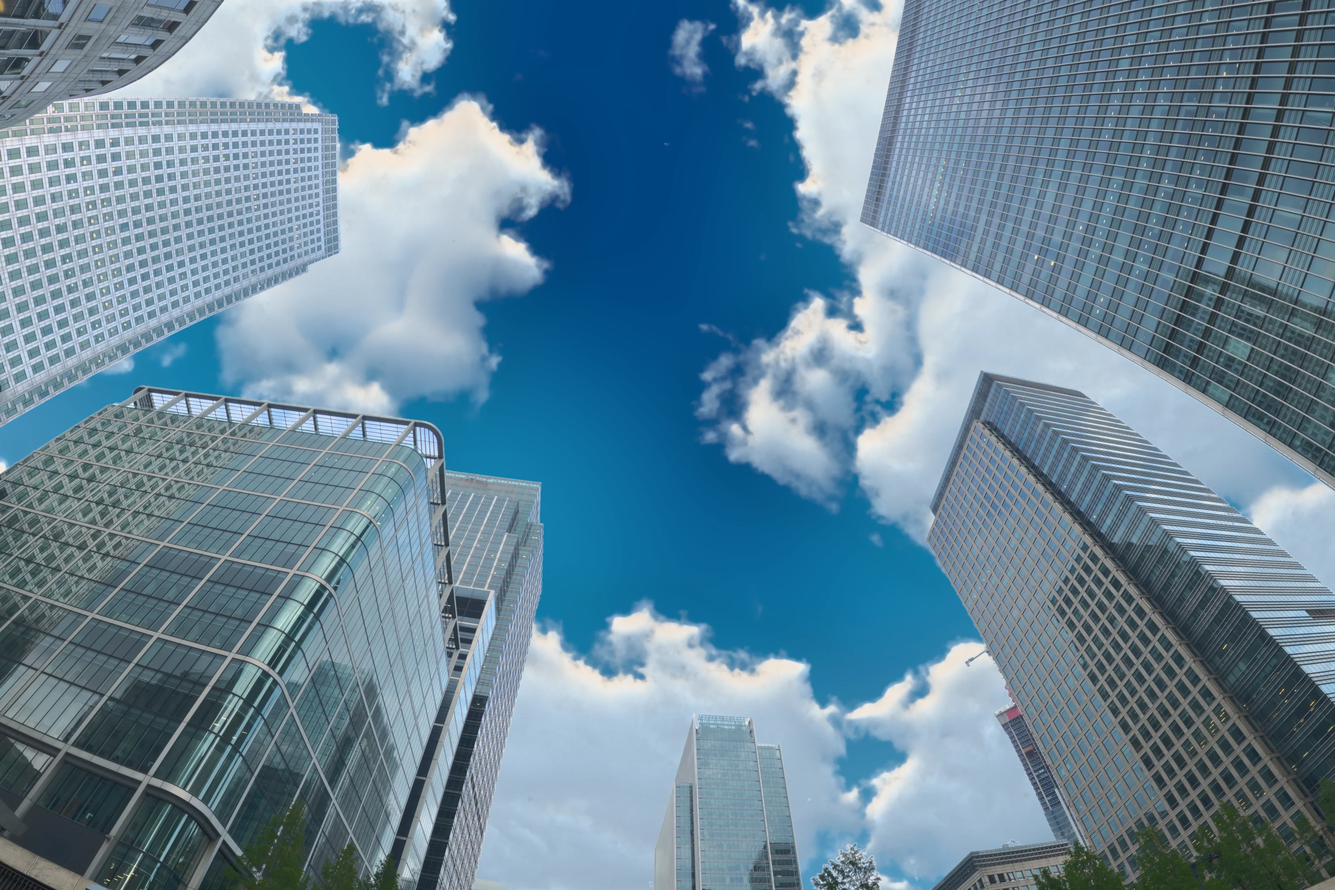
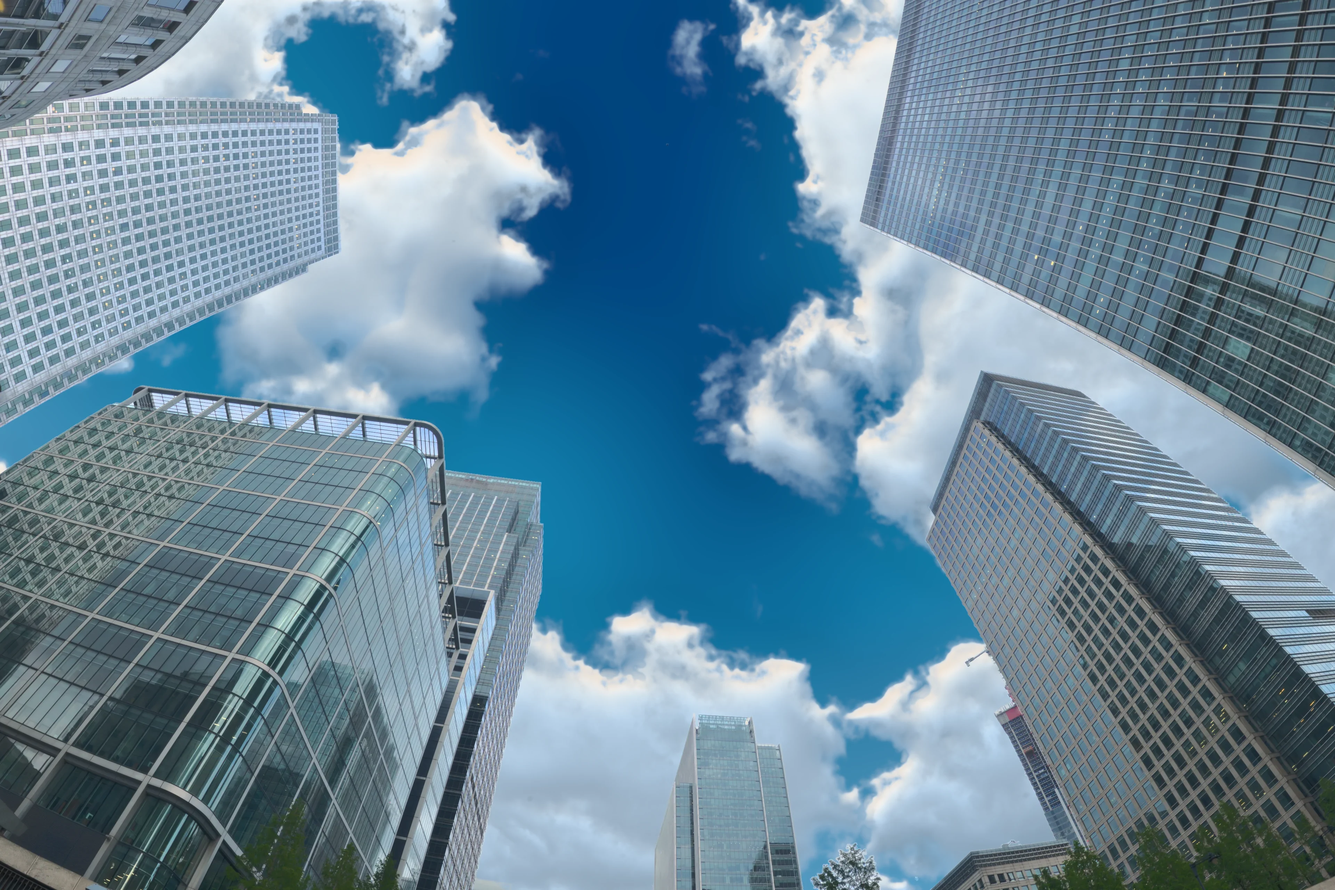
Lab: climb fog round 3
Claude-Session: https://claude.ai/code/session_01RqENhngNCzDFmJWDZueXGV

diff --git a/src/app/lab/fog/fogEngine.js b/src/app/lab/fog/fogEngine.js
@@ -171,9 +171,12 @@ const ROLL = 0.12; // it clears to here (~2.2 km: the far towers turning blue)
 const LEVELS = 6;
 // The sky's light at the scale of a cumulus' forms (a normalised blur of the
 // sky pixels, levels 3 and 4 of the pyramid, ~100-200 plate px): the plate minus
-// this is the cloud's local detail, which the veil keeps.
+// this is the cloud's local detail, which the veil keeps, at full strength: the
+// air shifts and pales a cumulus' light, it never airbrushes its lobes (the
+// plate lays the capture's own folds on at full strength, clouds.py, and a
+// veil that kept only part of them read as a blurrier plate behind the glass).
 const DETAIL_W = [0, 0, 0, 1];
-const DETAIL_K = 0.65;
+const DETAIL_K = 1.0;
 // A tower the haze takes keeps its build the same way: its floors and mullions
 // (the plate less a normalised blur of the tower pixels alone, at the scale of
 // its floors, ~30 plate px on the far tower) come back over the in-scatter at
@@ -547,8 +550,8 @@ void main() {
   vec3 sky = scene * Ts + (air + sunSky) * (1.0 - Ts);
   // The veil over the sky keeps the cumulus' forms: their local detail (the
   // plate less its blur at the scale of a cloud's forms) comes back over the
-  // in-scatter, so at least ${Math.round(DETAIL_K * 100)}% of it survives any depth of haze and
-  // the low cloud reads as cloud through the air, not as a flat wash.
+  // in-scatter, so ${Math.round(DETAIL_K * 100)}% of it survives any depth of haze and the
+  // low cloud reads as cloud through the air, not as a flat wash.
   vec3 kept = ${DETAIL_K.toFixed(2)} * (1.0 - Ts) * (scene - forms) * smoothstep(0.05, 0.3, dtl.a);
   sky += kept;
   // How much of the sky's light is still the cloud's own: what the air lets

diff --git a/tools/depth/bakes/fog/clouds.py b/tools/depth/bakes/fog/clouds.py
@@ -14,8 +14,11 @@
 # toward it and as each cloud's own shadow (the cover marched toward the sun:
 # the side facing it is lit, the far side and the base in the cloud's shade).
 # Sunlit and thick goes to cream #FFF1E2, the shade and the thin margins to
-# skylight blue, never grey; the capture's own folds ride on that as local
-# contrast at three scales, so the body keeps its modelling.
+# skylight blue, never grey; the capture's own folds (its band-pass light,
+# at full strength) ride on that, so the lobes keep the capture's crispness.
+# Mid-thickness dips inside a thick body are floored, so no cobalt shows
+# through a cloud as a hole, and no cloud pixel prints darker than the cobalt
+# under it, so the sunlit rims carry no dark flecks.
 import numpy as np, cv2
 
 LUMA = np.array([0.2126, 0.7152, 0.0722], np.float32)
@@ -28,6 +31,12 @@ SUN = dict(lon=37.5, lat=28.8, yaw=200.0, pitch=-62.0, hfov=118.0)
 # white, not a grey. The warm end only on the body of a cloud: a lobe's lit
 # rim round a hole or a thin edge stays a neutral white (cream over the
 # cobalt showing through it prints a peach fleck).
+# How far the cover is floored inside a thick body, and the strength of the
+# capture's band-pass folds over the relit cloud.
+HOLE_FLOOR = 0.9
+DETAIL_K = 1.3
+# The bake's luminance shoulder (bake.py), which the folds are laid on through.
+SH_K0, SH_TOP = 0.64, 0.965
 LIGHT_RIM = [(0.78, '#F1F1EF'), (1.0, '#F8F7F4')]
 LIGHT = [(0.0, '#93B1CB'), (0.3, '#A9C1D6'), (0.55, '#D2DDE4'), (0.78, '#F2EFEA'), (1.0, '#FFF1E2')]
 
@@ -131,6 +140,19 @@ def composite(sky, elev, matte, stats=False):
     # the margin takes the light of the cloud just inside it.
     inner = nblur(Ycl, alpha ** 4, 4 * S)
     Ycl = np.maximum(inner + (Ycl - inner) * smooth(0.35, 0.85, alpha), 0.2)
+    # The cover as unmixed dips at mid-thickness inside the big bodies (a
+    # thinner fold of the capture reads as half sky), and laid over the new
+    # cobalt those dips print as blotchy holes, a torn decal. Inside a thick
+    # body the cover is floored to most of its cloud-scale blur; the margins,
+    # the gaps between clouds and the thin clouds keep their own.
+    a0 = alpha
+    thick0 = 0.3 * cv2.GaussianBlur(a0, (0, 0), 8 * S) + 0.35 * cv2.GaussianBlur(a0, (0, 0), 20 * S) \
+        + 0.35 * cv2.GaussianBlur(a0, (0, 0), 48 * S)
+    # (Enclosed only: past a cloud's outer silhouette the cloud-scale blur is
+    # under a half, and a floor there would lift the margin into a halo.)
+    body = cv2.GaussianBlur(a0, (0, 0), 28 * S)
+    alpha = np.maximum(a0, HOLE_FLOOR * body * smooth(0.45, 0.55, thick0) * smooth(0.58, 0.72, body))
+    del thick0, body
 
     # ------------------------------------------------ the clear sky
     # A radial gradient in the open sky between the towers, pale cyan where it
@@ -187,17 +209,30 @@ def composite(sky, elev, matte, stats=False):
     L = L * smooth(0.08, 0.55, thick) * smooth(0.25, 0.9, cv2.GaussianBlur(alpha, (0, 0), 2 * S))
     L = smooth(0.12, 0.82, L)
 
-    # The capture's folds, as local contrast on the log of its own light: a
-    # clarity pass at three scales (lightly denoised first, so it is not the
-    # sensor noise that gets sharpened), and a little of its broad modelling.
-    lY = np.log(Ycl)
-    lS = cv2.GaussianBlur(lY, (0, 0), 0.7 * S)
-    d0 = lS - cv2.GaussianBlur(lS, (0, 0), 1.8 * S)
-    d1 = lS - cv2.GaussianBlur(lS, (0, 0), 6 * S)
-    d2 = lS - cv2.GaussianBlur(lS, (0, 0), 24 * S)
+    # The capture's folds, at full strength: its band-pass luminance (the
+    # docklands light, lightly denoised, less its blur at ~12 px of the 2560
+    # frame), so the lobes are as crisp as the capture's own and the sky holds
+    # up next to the glass. Taken on the cloud's light as unmixed from the
+    # capture's blue, with the blur normalised over the cloud alone, so a fold
+    # where the blue showed through, or the blue beside a margin, does not
+    # print as a dark hole or rim. Under it the forms at the scale of the
+    # lobes, and a little of the broad modelling.
+    lY = np.log(cv2.GaussianBlur(Ycl, (0, 0), 0.75 * S))
+    wc = alpha ** 4 + 1e-3
+    lo1 = nblur(lY, wc, 11 * S)
+    lo2 = nblur(lY, wc, 40 * S)
     lm = np.median(lY[(alpha > 0.9) & (matte > 0.5)])
-    lB = cv2.GaussianBlur(lY, (0, 0), 90 * S)
-    detail = np.exp(np.clip(0.18 * (lB - lm) + 0.35 * d0 + 0.6 * d1 + 0.6 * d2, -0.7, 0.6))
+    lB = nblur(lY, wc, 90 * S)
+    dl = DETAIL_K * (lY - lo1) + 1.0 * (lo1 - lo2) + 0.18 * (lB - lm)
+    # Faded in from the silhouette: on a margin the unmixed light is an
+    # estimate over a small number, and the capture's thin edges run grey for
+    # a lobe's width inside it, so at full strength there its folds print a
+    # grey rim (or, cut off, a pale outline) between the sunlit top and the
+    # cobalt. The shade comes in over a lobe's width, the light sooner.
+    din = cv2.distanceTransform((a0 > 0.5).astype(np.uint8), cv2.DIST_L2, 5).astype(np.float32)
+    din = cv2.GaussianBlur(din, (0, 0), 2 * S)
+    dl = dl * np.where(dl > 0, smooth(1 * S, 8 * S, din), smooth(4 * S, 22 * S, din))
+    del din, lo1, lo2, lB, wc
 
     # The ladder, in linear light, by L: hue and luminance together.
     def ladder(lst):
@@ -205,7 +240,27 @@ def composite(sky, elev, matte, stats=False):
         return np.stack([np.interp(L, [x for x, _ in st], [c[k] for _, c in st]) for k in range(3)], -1).astype(np.float32)
     body = smooth(0.6, 0.88, t1)[..., None]
     base = ladder(LIGHT[:-2] + LIGHT_RIM) * (1 - body) + ladder(LIGHT) * body
-    cloud = base * detail[..., None]
+    # Laid on after the relight, at full strength as printed: the bake's shoulder (bake.py, from 0.64) and
+    # the film's flatten the sunlit tops, so there the folds are laid on
+    # steeper by how much the shoulder takes out of their log contrast.
+    Yb = base @ LUMA
+    gain = np.where(Yb < SH_K0, 1.0, np.exp(-(Yb - SH_K0) / (SH_TOP - SH_K0)) * Yb
+                    / (SH_K0 + (SH_TOP - SH_K0) * (1 - np.exp(-(Yb - SH_K0) / (SH_TOP - SH_K0)))))
+    detail = np.exp(np.clip(dl / np.clip(gain, 0.4, 1.0), -0.65, 0.75))
+    # Where a fold darkens a sunlit top it is in the cloud's own shade, so it
+    # goes toward skylight blue, never a darker cream (which prints brown).
+    shade = s2l('#A9C1D6')
+    shade = shade / (shade @ LUMA)
+    dark = smooth(0.0, 0.5, -np.log(np.minimum(detail, 1)))[..., None]
+    cloud = (base * (1 - dark) + Yb[..., None] * shade * dark) * detail[..., None]
+    # And no pixel of a cloud is darker than the cobalt under it: a margin
+    # thins into the blue, it never prints a dark fleck or rim on the way.
+    Yc = cloud @ LUMA
+    cloud = cloud * np.maximum(1.0, (gap @ LUMA) * 1.02 / (Yc + 1e-5))[..., None]
+    # A filled hole takes the light of the cloud round it, so it closes as
+    # more of the body rather than as a flat shaded patch.
+    filled = np.clip(a0 / np.maximum(alpha, 1e-3), 0, 1)[..., None]
+    cloud = cloud * filled + nblur(cloud, a0 ** 4, 10 * S) * (1 - filled)
     a3 = alpha[..., None]
     skyg = gap * (1 - a3) + cloud * a3
     if stats:
